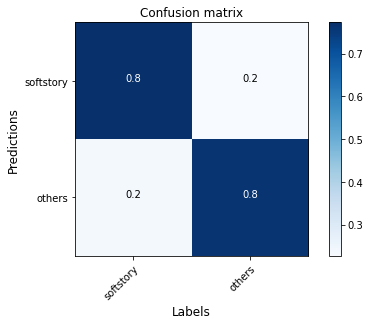
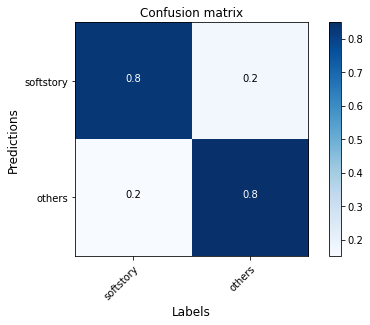
updating modelzoo, docs

diff --git a/brails/modules/GenericImageClassifier/GenericImageClassifier.py b/brails/modules/GenericImageClassifier/GenericImageClassifier.py
@@ -194,7 +194,7 @@ class ImageClassifier:
 
     def train(self,baseModel='InceptionV3',lr1=0.0001,initial_epochs=10,
                     fine_tune_at=300,lr2=0.00001,fine_tune_epochs=50,
-                    horizontalFlip=False,verticalFlip=False,dropout=0.6,randomRotation=0.0,plot=True):
+                    horizontalFlip=False,verticalFlip=False,dropout=0.6,randomRotation=0.0,callbacks=[],plot=True):
         
         ## 1. Model zoo
          
@@ -285,7 +285,8 @@ class ImageClassifier:
         self.model.summary()
 
         ### 3. Train the model
-        history = self.model.fit(self.train_ds, epochs=initial_epochs, validation_data=self.val_ds)
+        #callback = tf.keras.callbacks.EarlyStopping(monitor='loss', patience=10)
+        history = self.model.fit(self.train_ds, epochs=initial_epochs, validation_data=self.val_ds, callbacks=callbacks)
 
         # Plot learning curves
 
@@ -339,7 +340,7 @@ class ImageClassifier:
         ### 4.3 Continue training the model
 
         total_epochs =  initial_epochs + fine_tune_epochs
-        history_fine = self.model.fit(self.train_ds, epochs=total_epochs, initial_epoch=history.epoch[-1], validation_data=self.val_ds)
+        history_fine = self.model.fit(self.train_ds, epochs=total_epochs, initial_epoch=history.epoch[-1], validation_data=self.val_ds, callbacks=callbacks)
 
         # Plot learning curves
 
@@ -409,7 +410,7 @@ class ImageClassifier:
 
 
 
-    def retrain(self,lr1=0.0001,initial_epochs=10):
+    def retrain(self,lr1=0.0001,initial_epochs=10,callbacks=[]):
         '''
         if self.train_ds.class_names != self.classNames:
             print('Can not retrain. Folder names mismatch predefined classNames: {}'.format(self.classNames))
@@ -423,7 +424,7 @@ class ImageClassifier:
         self.model.summary()
 
         ### Train the model
-        history = self.model.fit(self.train_ds, epochs=initial_epochs, validation_data=self.val_ds)
+        history = self.model.fit(self.train_ds, epochs=initial_epochs, validation_data=self.val_ds,callbacks=callbacks)
 
     def save(self, newModelName=None):
         if newModelName != None: 

diff --git a/brails/modules/ModelZoo.py b/brails/modules/ModelZoo.py
@@ -20,11 +20,11 @@ zoo = {
         'classNames' : ['RES1', 'RES3']
     } ,
     'occupancyClass':{
-        'fileURL' : 'https://zenodo.org/record/4553798/files/occupancy_InceptionV3_V0.2.h5',
+        'fileURL' : 'https://zenodo.org/record/4565557/files/occupancy_ResNet50_V0.1.h5',
         'classNames' : ['RES3', 'COM' ,'RES1']
     } ,
     'softstory':{
-        'fileURL' : 'https://zenodo.org/record/4094334/files/softstory-80-81-87.5-v0.1.h5',
+        'fileURL' : 'https://zenodo.org/record/4565554/files/softstory_ResNet50_V0.1.h5',
         'classNames' : ['others', 'softstory']
     } 
 }

diff --git a/brails/modules/OccupancyClassClassifier/OccupancyClassClassifier.py b/brails/modules/OccupancyClassClassifier/OccupancyClassClassifier.py
@@ -33,7 +33,8 @@ class OccupancyClassifier(ImageClassifier):
             classNames = zoo['occupancyClass']['classNames']
 
         if not modelName:
-            modelName = 'occupancy_InceptionV3_V0.2'
+            #modelName = 'occupancy_InceptionV3_V0.2'
+            modelName = 'occupancy_ResNet50_V0.1' # r
             print('A default occupancy model will be used: {}.'.format(modelName))
 
         modelFile = os.path.join(workDir,'{}.h5'.format(modelName))

diff --git a/brails/modules/SoftstoryClassifier/SoftstoryClassifier.py b/brails/modules/SoftstoryClassifier/SoftstoryClassifier.py
@@ -32,7 +32,7 @@ class SoftstoryClassifier(ImageClassifier):
             classNames = zoo['softstory']['classNames']
 
         if not modelName:
-            modelName = 'softstory-80-81-87.5-v0.1'
+            modelName = 'softstory_ResNet50_V0.1'  # good  softstory_ResNet50_V0.1_r
             print('A default softstory model will be used: {}.'.format(modelName))
 
         modelFile = os.path.join(workDir,'{}.h5'.format(modelName))

diff --git a/docs/common/technical_manual/residentialOccupancy.rst b/docs/common/technical_manual/residentialOccupancy.rst
@@ -3,9 +3,7 @@
 Occupancy Classifier
 ========================
 
-The trained classifier is tested on a ground truth dataset `dataset <https://zenodo.org/record/4553803/files/occupancy_validation_images.zip>`_.
-The accuracy, precision, recall and F1 are all found to be 100%.
-
+An overall accuracy of 85.43% is obtained when the trained classifier is tested on a ground truth dataset :cite:`chaofeng_wang_2020_4386991`.
 
 Run the following python script to test on this dataset.
 
@@ -15,8 +13,8 @@ Run the following python script to test on this dataset.
 
     import wget
     import zipfile
-    wget.download('https://zenodo.org/record/4553803/files/occupancy_validation_images.zip')
-    with zipfile.ZipFile('occupancy_validation_images.zip', 'r') as zip_ref:
+    wget.download('https://zenodo.org/record/4386991/files/occupancy_test.zip')
+    with zipfile.ZipFile('occupancy_test.zip', 'r') as zip_ref:
         zip_ref.extractall('.')
 
     # prepare the image lists
@@ -26,33 +24,34 @@ Run the following python script to test on this dataset.
     import pandas as pd
     from glob import glob
 
-    class_names = ['RES3', 'COM' ,'RES1']
-
-    labels = []
-    images = []
-    for clas in class_names:
-        imgs = glob(f'occupancy_validation_images/{clas}/*.jpg')
-        for img in imgs:
-            labels.append(clas)
-            images.append(img)
+    mfList = glob('occupancy_test/multi-family/*.png')
+    sfList = glob('occupancy_test/single-family/*.png')
 
     # import the module
     from brails.modules import OccupancyClassifier
 
-    # initialize the classifier
+    # initialize a roof classifier
     occupancyModel = OccupancyClassifier()
 
+    # define the paths of images in a list
+    imgs=mfList+sfList
+
     # use the model to predict
-    pred = occupancyModel.predict(images)
-    predictions = pred['prediction'].tolist()
+    predictions = occupancyModel.predict(imgs)
+
+    predictions['label']=predictions['image'].apply(lambda x: 'RES1' if 'single' in x else 'RES3')
+    prediction = predictions['prediction'].values.tolist()
+    label = predictions['label'].values.tolist()
 
     # Plot results
+
+    class_names = ['single-family','multi-family']
     from brails.utils.plotUtils import plot_confusion_matrix
     from sklearn.metrics import confusion_matrix
     from sklearn.metrics import f1_score,accuracy_score
 
-    print(' Accuracy is   : {}, Random guess is 0.33'.format(accuracy_score(predictions,labels)))
-    cnf_matrix = confusion_matrix(predictions,labels)
+    print(' Accuracy is   : {}, Random guess is 0.5'.format(accuracy_score(prediction,label)))
+    cnf_matrix = confusion_matrix(prediction,label)
     plot_confusion_matrix(cnf_matrix, classes=class_names, title='Confusion matrix',normalize=False,xlabel='Labels',ylabel='Predictions')
 
 
@@ -61,7 +60,7 @@ The confusion matrix tested on this dataset is shown in :numref:`fig_confusion_o
 
 
 .. _fig_confusion_occupancy:
-.. figure:: ../../images/technical/confusion_occupancy_v2.png
+.. figure:: ../../images/technical/confusion_occupancy.png
   :width: 40%
   :alt: Confusion matrix occupancy class
 

diff --git a/docs/common/technical_manual/softstory.rst b/docs/common/technical_manual/softstory.rst
@@ -5,7 +5,8 @@ Soft-story Building Classifier
 
 The Soft-story Building Classifier is validated here.
 
-An overall accuracy of 76.7% is obtained when the trained classifier is tested on a ground truth dataset that can be downloaded `here <https://zenodo.org/record/4508433/files/softstory-buildings-val.zip>`_.
+The trained classifier is tested on a ground truth dataset that can be downloaded `here <https://zenodo.org/record/4508433/files/softstory-buildings-val.zip>`_.
+Accuracy is 83.8%. Precision is 83.8%. Recall is 83.8%. F1 is 83.8%.
 
 Run the following python script to test on this dataset.
 

diff --git a/docs/common/user_manual/modules/yearClassifier.rst b/docs/common/user_manual/modules/yearClassifier.rst
@@ -38,8 +38,8 @@ The first time you initialize this model, it will download the model from the in
     # import the module
     from brails.modules import YearBuiltClassifier
 
-    # initialize a roof classifier
-    model = FoundationHeightClassifier()
+    # initialize a year classifier
+    model = YearBuiltClassifier()
 
     # define the paths of images in a list
     from glob import glob

diff --git a/docs/common/user_manual/troubleshooting.rst b/docs/common/user_manual/troubleshooting.rst
@@ -32,7 +32,7 @@ For example, if you are using Python3.8:
 
 Then you'll be able to:
 
-pip3 install BRAILSs
+pip3 install BRAILS
 
 
 Internet connection
